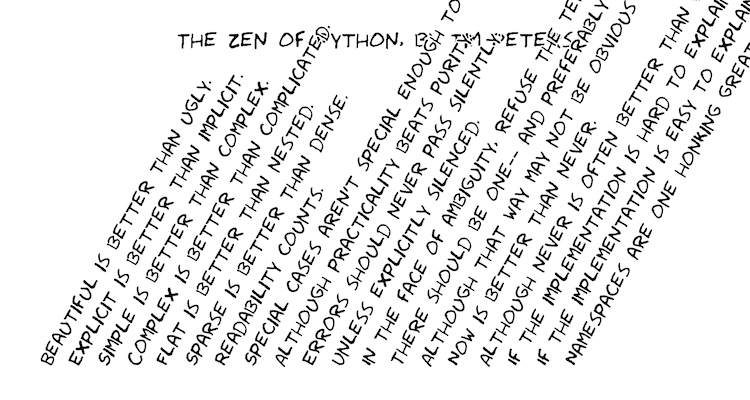
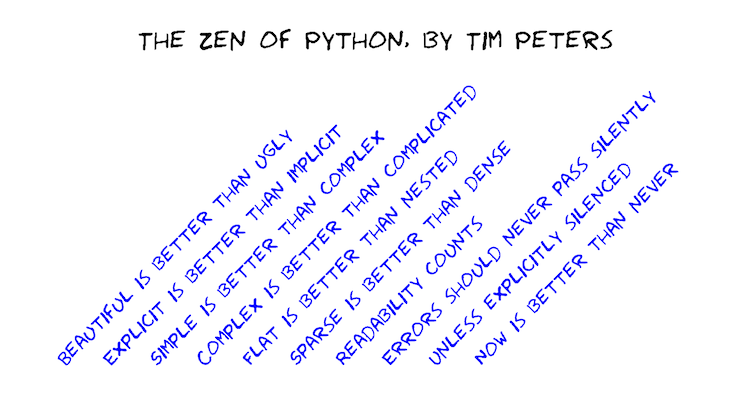
une premiere proposition pour le second visuel

Changed region(s): [[0.0613, 0.0, 1.0, 0.93]]

diff --git a/00-teaser/xkcd3.py b/00-teaser/xkcd3.py
@@ -41,7 +41,8 @@ for i,a,x,y,angle,size in zip (range(n),aphorisms,X,Y,angles,font_sizes):
 #    fig.text (x,y,"%s:%s"%(i,a),rotation=angle,fontsize=size,ha='center',va='center')
 
 
-my_selection=[1,2,18,19]
+aphorisms = [ a.strip('.') for a in aphorisms if len(a)<=40 and 'Although' not in a ]
+n=len(aphorisms)
 
 layout = [
     (0.5,0.9,0,1.,'k','center','center'),
@@ -61,14 +62,14 @@ def draw (layout):
 
 Y_bottom=0.08
 X_bottom=0.01
-X_top=0.75
+X_top=0.63
 delta=float(X_top-X_bottom)/(n-1)
 X_current=X_bottom
-ANGLE=60
+ANGLE=45
 
-layout2 = [ (X_bottom+i*delta,Y_bottom, ANGLE, .8, 'k','left','bottom')
+layout2 = [ (X_bottom+i*delta,Y_bottom, ANGLE, .8, 'b','left','bottom')
            for i,a in zip(range(n),aphorisms) ]
-layout2[0]= (0.5,0.9,0,1.,'k','center','center')
+layout2[0]= (0.5,0.9,0,1.4,'k','center','center')
 
 
 draw (layout2)  
